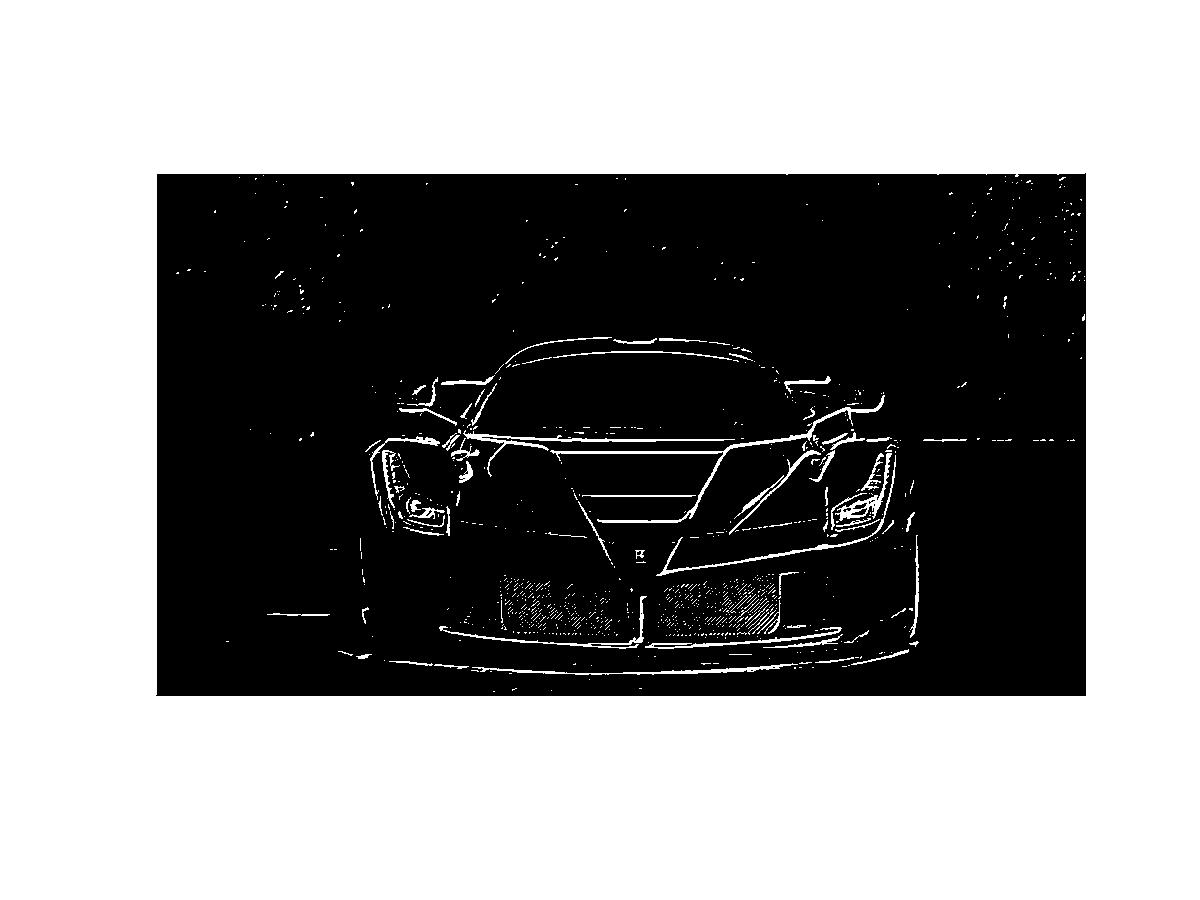
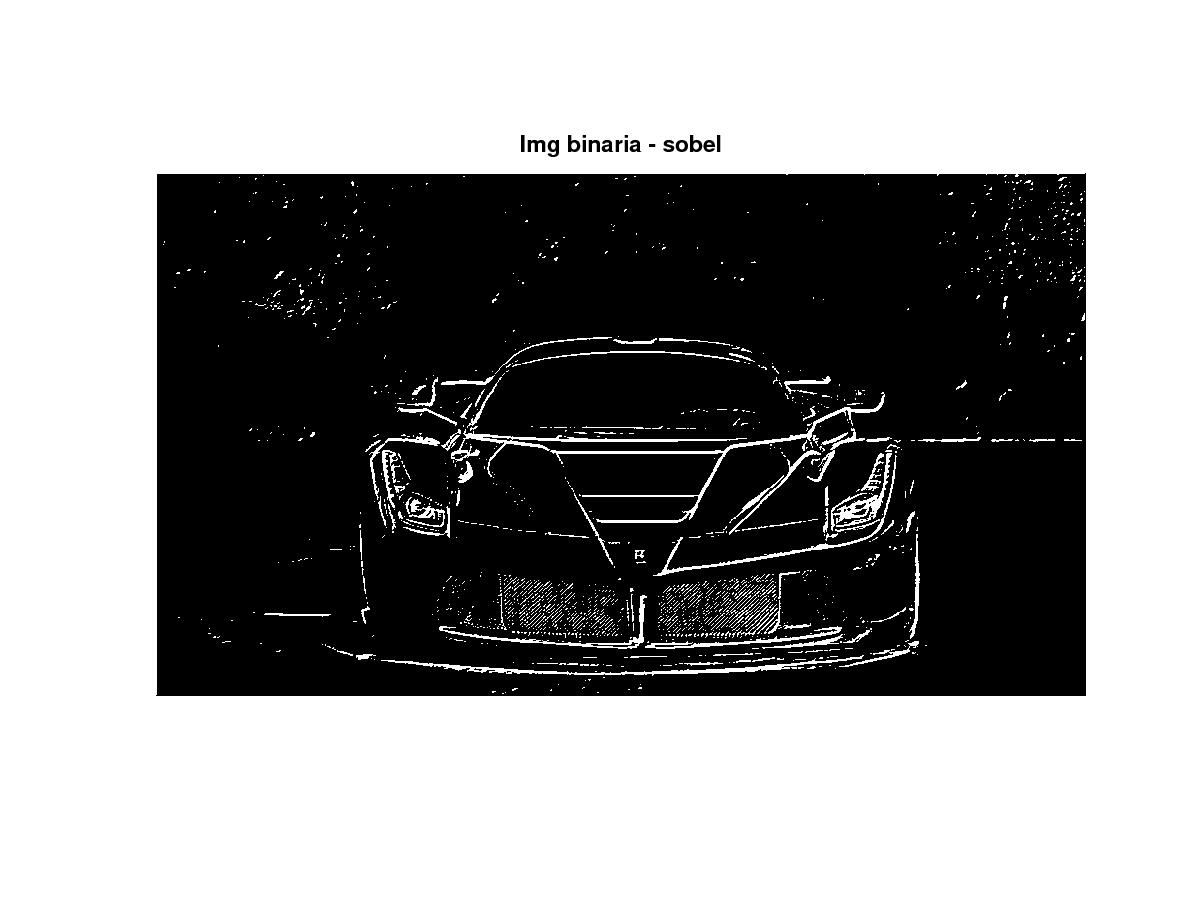
finish stuff

diff --git a/segmentacao.m b/segmentacao.m
@@ -48,102 +48,97 @@ title("Sobel Horizontal + Vertical")
 filtered = shv - 0.25;
 subplot(2, 1, 2);
 imshow(filtered);
-title("Sobel Horizontal + Vertical")
+title("Sobel Horizontal + Vertical [Limiarizado]")
 print -djpg geradas/segmentacao3.jpg
 
-
+figure;
+subplot(1, 1, 1);
 magnitude = abs(img_sh) + abs(img_sv);
-angulo = atan(img_sv./img_sh);
+angulo = atan(img_sh ./ img_sv);
 imshow(angulo);
+title("Angulos")
 print -djpg geradas/segmentacao5.jpg
 
 # Pintar bordas de acordo c/ angulo
 angulo_ind = angulo;
 
-# Amarelo: 
-# π/6 > ângulo >  -π/6 
-# 30 > angulo > -30
-angulo_ind(find(angulo > -pi/6)) = 1;
+angulo_ind(find(angulo < pi/3)) = 2; # verde angulo < 60
+angulo_ind(find(angulo < pi/6)) = 1; # amarelo angulo < 30
+angulo_ind(find(angulo < -pi/3)) = 4; # azul angulo < -60
+angulo_ind(find(angulo < -pi/6)) = 3; # vermelho angulo < -30
 
-# Vermelho: 
-# -π/6 > ângulo > -π/3
-# -30 > angulo > -60
-angulo_ind(find(angulo > -pi/3)) = 3;
+angulo_ind(find(angulo > -pi/6)) = 1; # amarelo angulo > -30 
+angulo_ind(find(angulo > -pi/3)) = 3; # vermelho angulo > -60
+angulo_ind(find(angulo > pi/6)) = 2; #verde angulo > 30
+angulo_ind(find(angulo > pi/3)) = 4; # azul angulo > 60
 
-
-# Verde: 
-# π/3 > ângulo > π/6
-# 60 > angulo > 30
-angulo_ind(find(angulo > pi/6)) = 2;
-
-# Azul:
-# -π/3 > ângulo > π/3
-# -60 > angulo > 60
-angulo_ind(find(angulo > pi/3)) = 4;
-
-MAP = [0 0 0; 1 1 0; 0 1 0; 1 0 0;  0 0 1];
+MAP = [1 1 0; 0 1 0; 1 0 0;  0 0 1];
 figure;
 subplot(1, 1, 1);
 imshow(angulo_ind, MAP);
+title("Angulos Coloridos")
 print -djpg geradas/segmentacao6.jpg
 
 shv = img_sh + img_sv;
-shv(find(shv<0.2)) = 0;
-shv(find(shv>0.2)) = 1;
+shv(find(shv<=0.15)) = 0;
+shv(find(shv>0.15)) = 1;
 figure;
 imshow(shv);
+title("Img binaria - sobel")
 print -djpg geradas/segmentacao6_1.jpg
 
+MAP = [0 0 0; 1 1 0; 0 1 0; 1 0 0; 0 0 1];
 imshow(angulo_ind .* shv, MAP);
+title("Img colorida")
 print -djpg geradas/segmentacao7.jpg
 
 figure;
-title("Sobel - funcao edge");
 subplot(1, 1, 1);
 edg = edge(img, "Sobel");
 imshow(edg);
+title("Sobel - funcao edge");
 print -djpg geradas/segmentacao8.jpg
 
 figure;
-title("Canny - funcao edge");
 edg = edge(img, "Canny");
 imshow(edg);
+title("Canny - funcao edge");
 print -djpg geradas/segmentacao9.jpg
 
 figure;
-title("Kirsch - funcao edge");
 edg = edge(img, "Kirsch");
 imshow(edg);
+title("Kirsch - funcao edge");
 print -djpg geradas/segmentacao10.jpg
 
 figure;
-title("Lindeberg - funcao edge");
 edg = edge(img, "Lindeberg");
 imshow(edg);
+title("Lindeberg - funcao edge");
 print -djpg geradas/segmentacao11.jpg
 
 figure;
-title("LoG - funcao edge");
 edg = edge(img, "LoG");
 imshow(edg);
+title("LoG - funcao edge");
 print -djpg geradas/segmentacao12.jpg
 
 figure;
-title("Roberts - funcao edge");
 edg = edge(img, "Roberts");
 imshow(edg);
+title("Roberts - funcao edge");
 print -djpg geradas/segmentacao13.jpg
 
 figure;
-title("zerocross - funcao edge");
 edg = edge(img, "zerocross", 5, 15);
 imshow(edg);
+title("zerocross - funcao edge");
 print -djpg geradas/segmentacao14.jpg
 
 figure;
-title("Andy - funcao edge");
 edg = edge(img, "Andy");
 imshow(edg);
+title("Andy - funcao edge");
 print -djpg geradas/segmentacao15.jpg
 
 
@@ -154,16 +149,38 @@ blue = imread("imagens/laranjeiras_b.tif");
 green = imread("imagens/laranjeiras_g.tif");
 nir = im2double(nir);
 red = im2double(red);
-NDVI = (nir - red) / (nir + red);
-# TODO: Why this is all black and white
-bw =  im2bw(NDVI, 0.09);
+blue = im2double(blue);
+green = im2double(green);
+
+out = cat(3, red, green, blue);
+imshow(out);
+title("Imagem colorida");
+print -djpg geradas/segmentacao16.jpg
+
+ndvi = (nir - red) ./ (nir + red);
+imshow(ndvi);
+title("NDVI");
+print -djpg geradas/segmentacao17.jpg
+
+vegetacao = ndvi;
+vegetacao(find(vegetacao<=0.5)) = 0;
+vegetacao(find(vegetacao>0.5)) = 1;
+imshow(vegetacao);
+title("NDVI Limiarizada - Vegetacao");
+print -djpg geradas/segmentacao18.jpg
+
+sem_vegetacao = 1-vegetacao;
+imshow(sem_vegetacao);
+title("NDVI Limiarizada - Areas sem Vegetacao");
+print -djpg geradas/segmentacao19.jpg
+
 
 # Separação de imagens
 digital = imread("imagens/digital.png");
 imshow(digital);
 digital = im2double(digital);
 imhist(digital);
-d = im2double(digital < 0.8);
 d = im2double(digital > 0.3);
 imshow(d);
-print -djpg geradas/segmentacao12.jpg
+title("Digital - Separada")
+print -djpg geradas/segmentacao20.jpg
